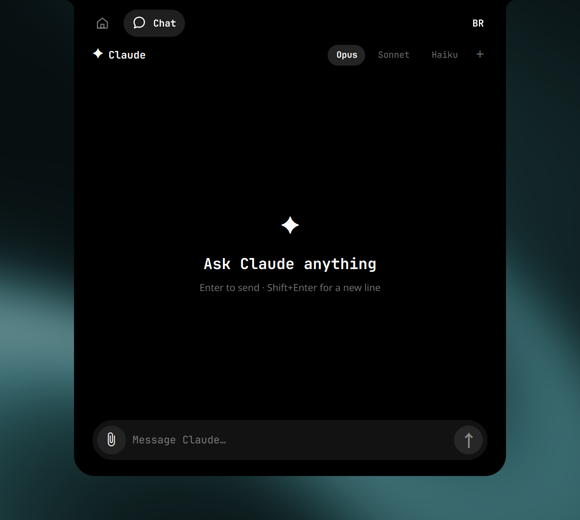
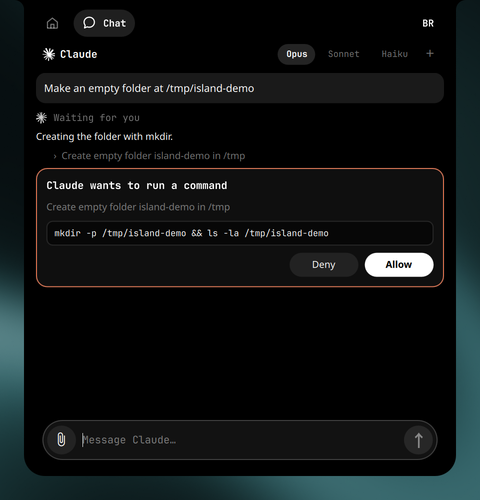
README: island chat GIF, approval card, island file picker, keyring-once lock screen

diff --git a/README.md b/README.md
@@ -29,17 +29,32 @@ all-or-nothing, and re-run themselves whenever an update replaces the file.
 
 ### Lock screen
 
-A bare fingerprint glyph at the bottom: just touch the sensor at any time, no password first. It pulses when ready, shakes on a miss, and the unlock fades into the desktop.
+A bare fingerprint glyph at the bottom: just touch the sensor at any time. After a restart it asks for your password once, which also unlocks the keyring, then it's fingerprint only. It pulses when ready, shakes on a miss, and the unlock fades into the desktop.
 
 <img src="docs/img/lock.jpg" width="860" alt="Panacea lock screen with clock and a fingerprint indicator reading 'Touch the sensor to unlock'">
 
 ### Claude in the island
 
-A single agent tab with model pills; Enter sends. It runs through
+`Super+C` opens a single Claude tab, cursor in the message box: the Claude
+logo, model pills, a little orange pixel Claude on the empty chat, live steps
+while it works, and approval cards right in the conversation. It runs through
 [panacea-claude-bridge](https://github.com/aphesist/panacea-claude-bridge) on a
 Claude subscription.
 
-<img src="docs/img/chat.png" width="460" alt="Island chat patched into a single Claude tab with Opus, Sonnet and Haiku pills">
+<p>
+<img src="docs/img/chat-idle.gif" width="400" alt="Empty island chat with the Claude logo and an animated orange pixel Claude">
+<img src="docs/img/chat.png" width="400" alt="An approval card in the island chat with the exact command and Allow / Deny">
+</p>
+
+### One file picker, inside the island
+
+The chat's paperclip, and Open/Save dialogs from every app (Zen, Claude
+desktop, Electron and GTK apps, via an xdg-desktop-portal backend), morph the
+island into its own file manager in picker mode, instead of a white GTK
+window tiled behind it. If Panacea isn't running, apps fall back to the GTK
+dialog on their own.
+
+<img src="docs/img/picker.png" width="860" alt="Panacea's file manager in picker mode inside the island, with Cancel and Open buttons">
 
 ### Launcher and calendar
 
